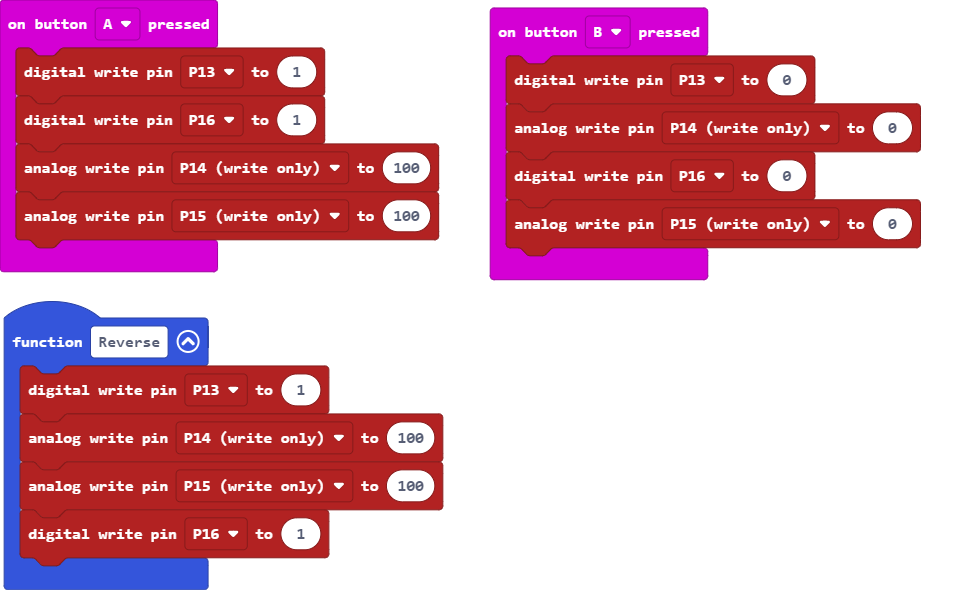
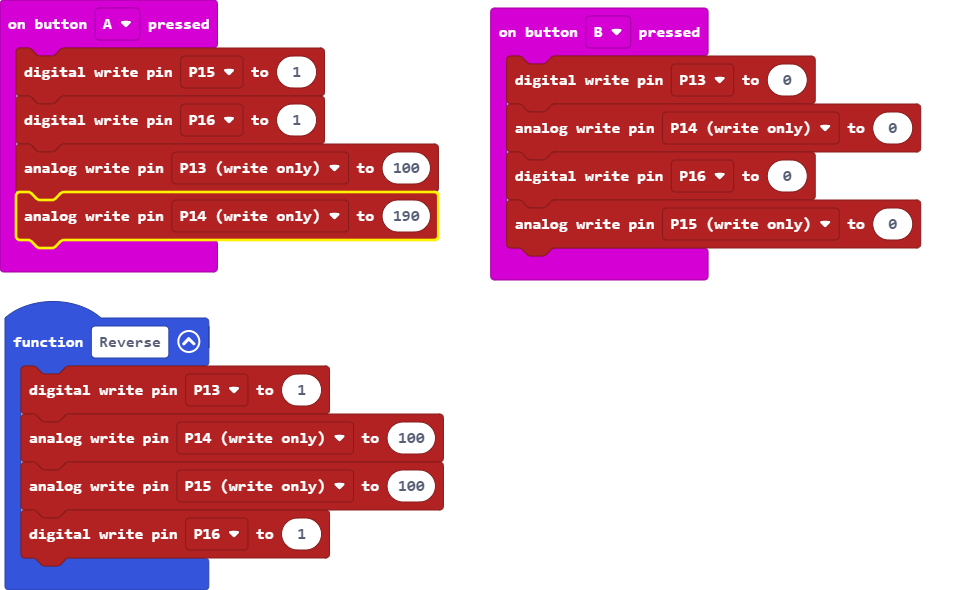
Update main.blocks, main.ts

diff --git a/main.ts b/main.ts
@@ -1,8 +1,8 @@
 input.onButtonPressed(Button.A, function () {
-    pins.digitalWritePin(DigitalPin.P13, 1)
+    pins.digitalWritePin(DigitalPin.P15, 1)
     pins.digitalWritePin(DigitalPin.P16, 1)
-    pins.analogWritePin(AnalogPin.P14, 100)
-    pins.analogWritePin(AnalogPin.P15, 100)
+    pins.analogWritePin(AnalogPin.P13, 100)
+    pins.analogWritePin(AnalogPin.P14, 190)
 })
 function Reverse () {
     pins.digitalWritePin(DigitalPin.P13, 1)
